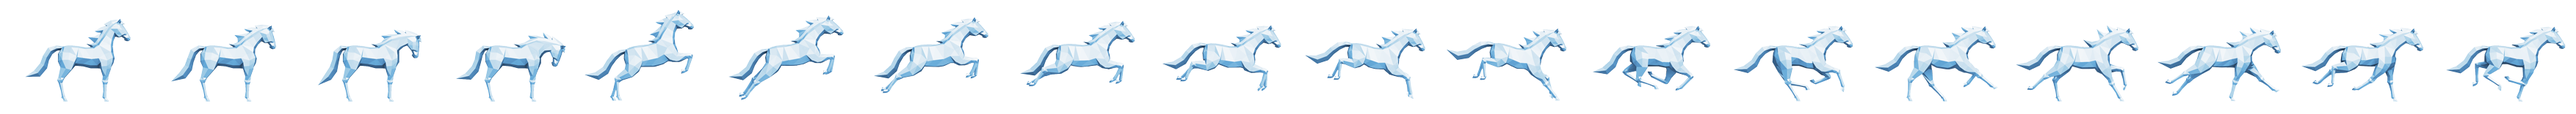
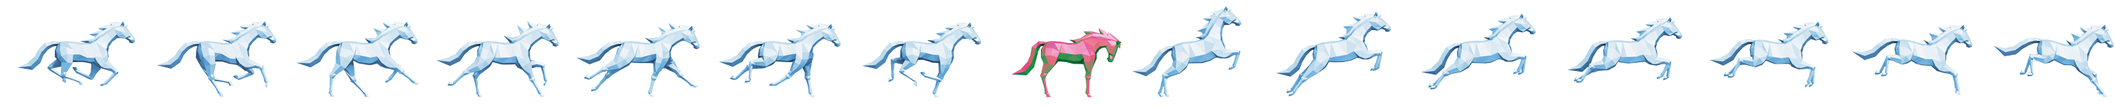
feat(enemies and sprites): new spritesheet and obstacle added

Changed region(s): [[0.0, 0.0828, 0.9997, 0.9103], [0.9684, 0.8276, 0.9997, 0.8828], [0.1562, 0.8828, 0.1874, 0.9103]]

diff --git a/lib/components/obstacle_manager.dart b/lib/components/obstacle_manager.dart
@@ -1,0 +1,86 @@
+import 'dart:math';
+
+import 'package:flame/components.dart';
+import 'package:rusher/components/rusher.dart';
+import 'package:rusher/models/obstacle_data.dart';
+
+import 'obstacle.dart';
+
+class ObstacleManager extends BaseComponent with HasGameRef<Rusher> {
+  final List<ObstacleData> _data = [];
+  final Random _random = Random();
+  final Timer _timer = Timer(2, repeat: true);
+
+  ObstacleManager() {
+    _timer.callback = spawnRandomObstacle;
+  }
+
+  void spawnRandomObstacle() {
+    final randomIndex = _random.nextInt(_data.length);
+    final obstacleData = _data.elementAt(randomIndex);
+    final obstacle = Obstacle(obstacleData);
+
+    obstacle.anchor = Anchor.bottomLeft;
+    obstacle.position = Vector2(
+      gameRef.size.x + 32,
+      gameRef.size.y - 24,
+    );
+
+    if (obstacleData.canFly) {
+      final newHeight = _random.nextDouble() * 2 * obstacleData.textureSize.y;
+      obstacle.position.y -= newHeight;
+    }
+
+    obstacle.size = obstacleData.textureSize/2.35;
+    gameRef.add(obstacle);
+  }
+
+  @override
+  void onMount() {
+    shouldRemove = false;
+    if (_data.isEmpty) {
+      _data.addAll([
+        ObstacleData(
+          image: gameRef.images.fromCache('tree.png'),
+          nFrames: 1,
+          stepTime: 1,
+          //207x382
+          textureSize: Vector2(207, 382),
+          speedX: 120,
+          canFly: false,
+        ),
+        // ObstacleData(
+        //   image: gameRef.images.fromCache('Bat/Flying (46x30).png'),
+        //   nFrames: 7,
+        //   stepTime: 0.1,
+        //   textureSize: Vector2(46, 30),
+        //   speedX: 100,
+        //   canFly: true,
+        // ),
+        // ObstacleData(
+        //   image: gameRef.images.fromCache('Rino/Run (52x34).png'),
+        //   nFrames: 6,
+        //   stepTime: 0.09,
+        //   textureSize: Vector2(52, 34),
+        //   speedX: 150,
+        //   canFly: false,
+        // ),
+      ]);
+    }
+    _timer.start();
+    super.onMount();
+  }
+
+  @override
+  void update(double dt) {
+    _timer.update(dt);
+    super.update(dt);
+  }
+
+  void removeAllEnemies() {
+    final enemies = gameRef.components.whereType<Obstacle>();
+    for (var element in enemies) {
+      element.remove;
+    }
+  }
+}

diff --git a/lib/components/horse.dart b/lib/components/horse.dart
@@ -10,26 +10,29 @@ enum HorseAnimationStates {
   Hit,
 }
 
+final horseSizeX =  192.0;
+final horseSizeY = 145.0;
+
 class Horse extends SpriteAnimationGroupComponent<HorseAnimationStates>
     with Hitbox, Collidable, HasGameRef<Rusher> {
   static final _animationMap = {
     HorseAnimationStates.Jump: SpriteAnimationData.sequenced(
       amount: 6,
-      stepTime: 0.2,
-      textureSize: Vector2(195,144),
-      texturePosition: Vector2(195*4.0, 0),
+      stepTime: 0.19,
+      textureSize: Vector2(horseSizeX,horseSizeY),
+      texturePosition: Vector2(horseSizeX*8.0, 0),
     ),
     HorseAnimationStates.Run: SpriteAnimationData.sequenced(
-      amount: 6,
-      stepTime: 0.16,
-      textureSize: Vector2(195,140),
-      texturePosition: Vector2(195*10.0, 0),
+      amount: 7,
+      stepTime: 0.15,
+      textureSize: Vector2(horseSizeX,horseSizeY),
+      texturePosition: Vector2(0, 0),
     ),
     HorseAnimationStates.Hit: SpriteAnimationData.sequenced(
       amount: 3,
       stepTime: 0.1,
-      textureSize: Vector2.all(296),
-      texturePosition: Vector2(276, 0),
+      textureSize: Vector2(horseSizeX,horseSizeY),
+      texturePosition: Vector2(horseSizeX*7.0, 0),
     ),
   };
 
@@ -39,7 +42,7 @@ class Horse extends SpriteAnimationGroupComponent<HorseAnimationStates>
   static const double GRAVITY = 800;
   final PlayerData playerData;
   bool isHit = false;
-
+  
   Horse(Image image, this.playerData)
       : super.fromFrameData(image, _animationMap);
 
@@ -47,7 +50,7 @@ class Horse extends SpriteAnimationGroupComponent<HorseAnimationStates>
   void onMount() {
     this._reset();
 
-    final shape = HitboxRectangle(relation: Vector2(0.5, 0.7));
+    final shape = HitboxRectangle(relation: Vector2(0.2, 0.3));
     addShape(shape);
     yMax = this.y;
 
@@ -95,7 +98,7 @@ class Horse extends SpriteAnimationGroupComponent<HorseAnimationStates>
 
   void jump() {
     if (isOnGround) {
-      this.speedY = -400;
+      this.speedY = -470;
       this.current = HorseAnimationStates.Jump;
     }
   }

diff --git a/lib/components/rusher.dart b/lib/components/rusher.dart
@@ -10,6 +10,7 @@ import '/models/settings.dart';
 import '/models/player_data.dart';
 import 'game_over_menu.dart';
 import 'infobar.dart';
+import 'obstacle_manager.dart';
 import 'pause_menu.dart';
 
 
@@ -19,11 +20,15 @@ class Rusher extends BaseGame with TapDetector, HasCollidables {
     'horse.png',
     'hills-scroll.png',
     'scroll_bg_far.png',
+    'tree.png',
+    'plswork.png',
+    'horse.png'
   ];
 
   late Horse _Horse;
   late Settings settings;
   late PlayerData playerData;
+  late ObstacleManager _obstacleManager;
   
   @override
   Future<void> onLoad() async {
@@ -31,7 +36,7 @@ class Rusher extends BaseGame with TapDetector, HasCollidables {
     playerData = await _readPlayerData();
     settings = await _readSettings();
     await images.loadAll(_imageAssets);
-    this.viewport = FixedResolutionViewport(Vector2(360*1.5, 180*1.5));
+    this.viewport = FixedResolutionViewport(Vector2(360*1.5, 180*1.7));
 
     final parallaxBackground = await loadParallaxComponent(
       [
@@ -42,16 +47,20 @@ class Rusher extends BaseGame with TapDetector, HasCollidables {
       velocityMultiplierDelta: Vector2(1.4, 0),
     );
     add(parallaxBackground);
+    _obstacleManager = ObstacleManager();
     _Horse = Horse(images.fromCache('horse.png'), playerData);
     return super.onLoad();
   }
 
   void startGamePlay() {
     add(_Horse);
+    add(_obstacleManager);
   }
 
   void _disconnectActors() {
     _Horse.remove(); 
+    _obstacleManager.removeAllEnemies();
+    _obstacleManager.remove();
   }
 
   void reset() {
@@ -73,6 +82,7 @@ class Rusher extends BaseGame with TapDetector, HasCollidables {
   @override
   void onTapDown(TapDownInfo info) {
     if (this.overlays.isActive(InfoBar.id)) {
+      
       _Horse.jump();
     }
     super.onTapDown(info);

diff --git a/lib/components/obstacle.dart b/lib/components/obstacle.dart
@@ -1,0 +1,40 @@
+import 'package:flame/geometry.dart';
+import 'package:flame/components.dart';
+import 'package:rusher/components/rusher.dart';
+import 'package:rusher/models/obstacle_data.dart';
+
+class Obstacle extends SpriteAnimationComponent
+    with Hitbox, Collidable, HasGameRef<Rusher> {
+  final ObstacleData obstacleData;
+
+  Obstacle(this.obstacleData) {
+    animation = SpriteAnimation.fromFrameData(
+      obstacleData.image,
+      SpriteAnimationData.sequenced(
+        amount: obstacleData.nFrames,
+        stepTime: obstacleData.stepTime,
+        textureSize: obstacleData.textureSize,
+      ),
+    );
+  }
+
+  @override
+  void onMount() {
+    final shape = HitboxRectangle(relation: Vector2.all(0.8));
+    addShape(shape);
+    size *= 0.6;
+    super.onMount();
+  }
+
+  @override
+  void update(double dt) {
+    position.x -= obstacleData.speedX * dt;
+
+    if (position.x < -obstacleData.textureSize.x) {
+      remove();
+      gameRef.playerData.currentScore += 1;
+    }
+
+    super.update(dt);
+  }
+}

diff --git a/lib/models/obstacle_data.dart b/lib/models/obstacle_data.dart
@@ -1,0 +1,21 @@
+import 'package:flame/extensions.dart';
+
+// This class stores all the data 
+// necessary for creation of an enemy.
+class ObstacleData {
+  final Image image;
+  final int nFrames;
+  final double stepTime;
+  final Vector2 textureSize;
+  final double speedX;
+  final bool canFly;
+
+  const ObstacleData({
+    required this.image,
+    required this.nFrames,
+    required this.stepTime,
+    required this.textureSize,
+    required this.speedX,
+    required this.canFly,
+  });
+}
